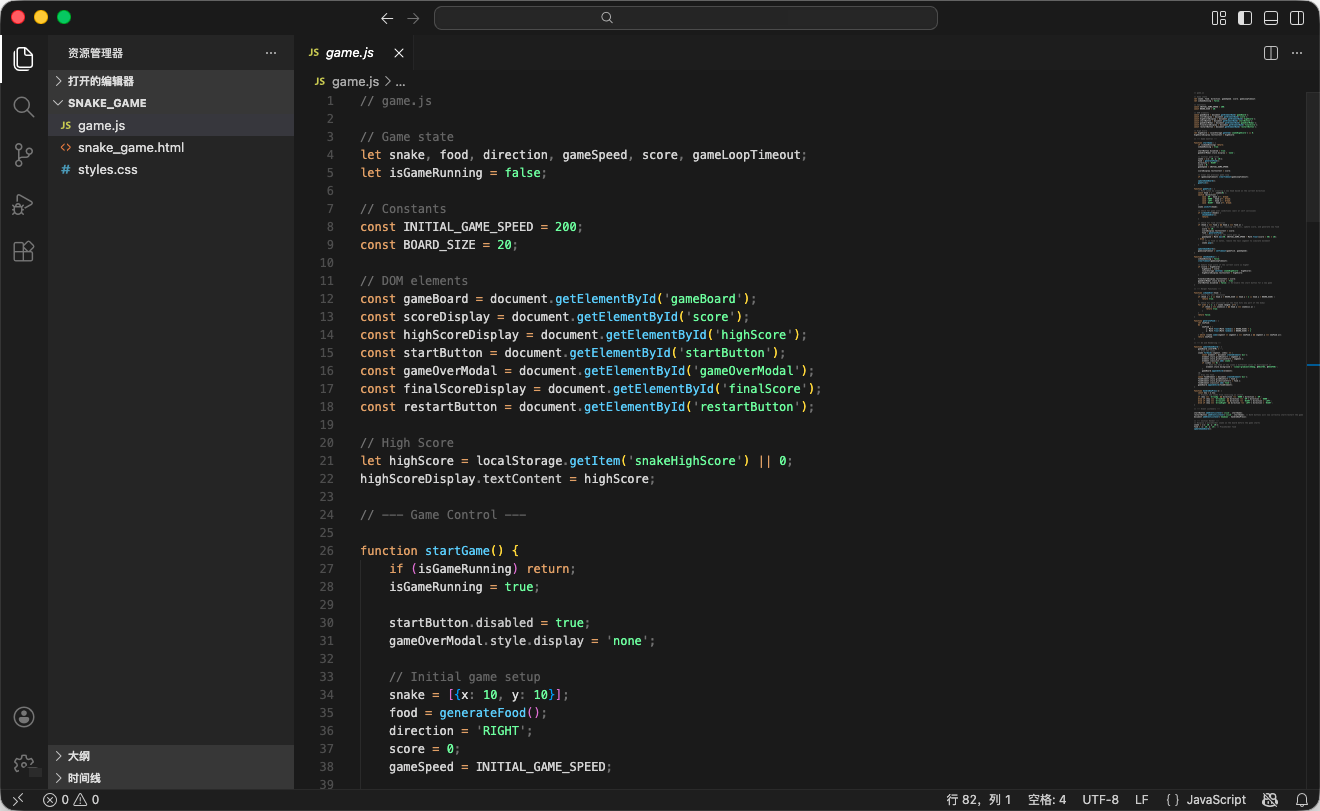
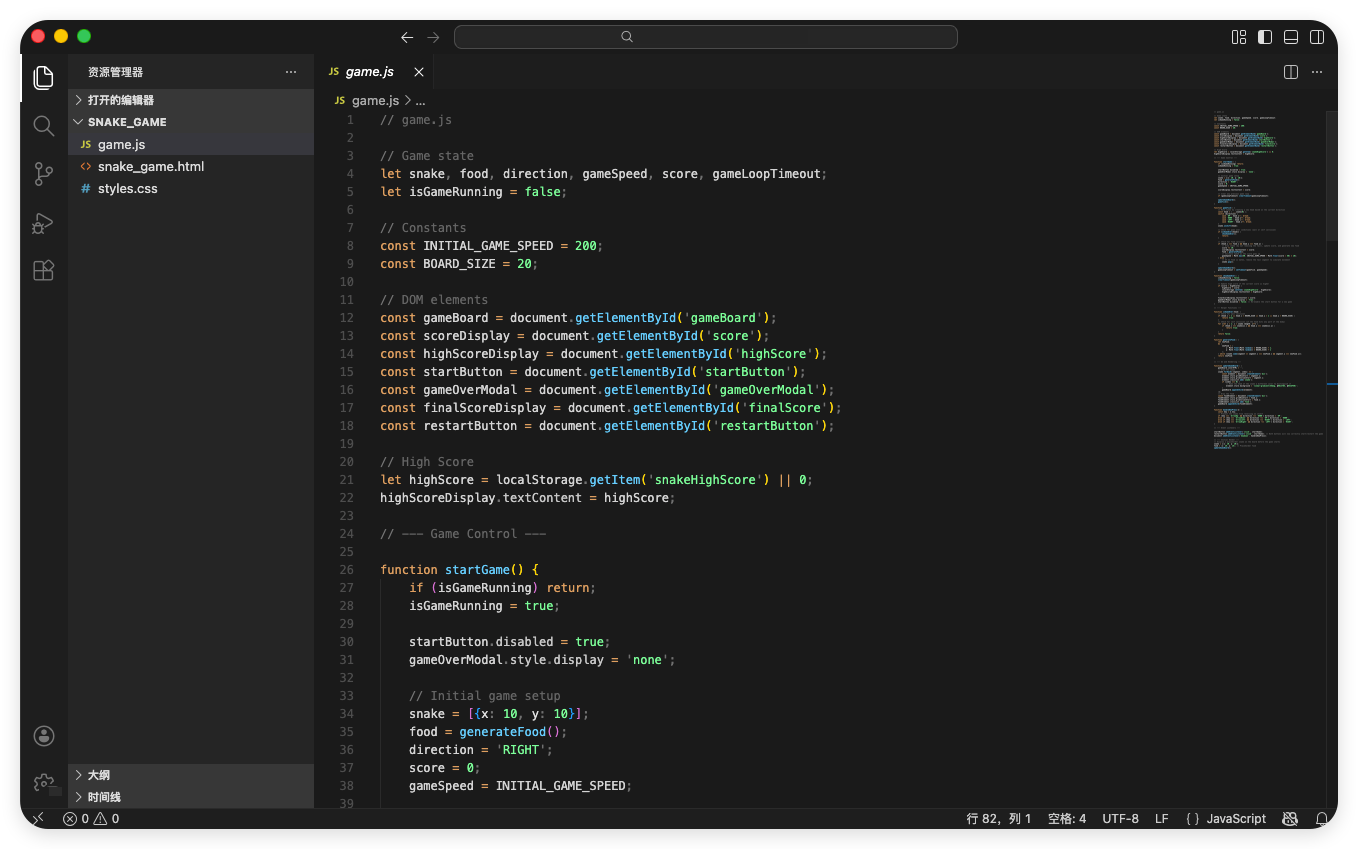
feat: add images

Changed region(s): [[0.0, 0.0, 1.0, 1.0]]

diff --git a/README.md b/README.md
@@ -18,15 +18,17 @@ Highlight only what truly matters:
 - Meaningful comments
 
 Less visual noise. More clarity. Faster navigation.
-Supports both light and dark modes.
 
 ## Preview
 
 <p align="center">
-  <img src="images/screenshot-light.png" alt="Focus Theme Light Preview" />
+  <img src="images/light.png" alt="Focus Theme Light Preview" />
 </p>
 <p align="center">
-  <img src="images/screenshot-dark.png" alt="Focus Theme Dark Preview" />
+  <img src="images/dark.png" alt="Focus Theme Dark Preview" />
+</p>
+<p align="center">
+  <img src="images/darker.png" alt="Focus Theme Darker Preview" />
 </p>
 
 ## Usage

diff --git a/README_zh-cn.md b/README_zh-cn.md
@@ -18,15 +18,17 @@
 - 有意义的注释
 
 减少视觉干扰，让阅读与定位更高效。
-支持浅色与深色两种风格。
 
 ## 主题预览
 
 <p align="center">
-  <img src="images/screenshot-light.png" alt="Focus Theme Light Preview" />
+  <img src="images/light.png" alt="Focus Theme Light Preview" />
 </p>
 <p align="center">
-  <img src="images/screenshot-dark.png" alt="Focus Theme Dark Preview" />
+  <img src="images/dark.png" alt="Focus Theme Dark Preview" />
+</p>
+<p align="center">
+  <img src="images/darker.png" alt="Focus Theme Darker Preview" />
 </p>
 
 ## 使用方式
